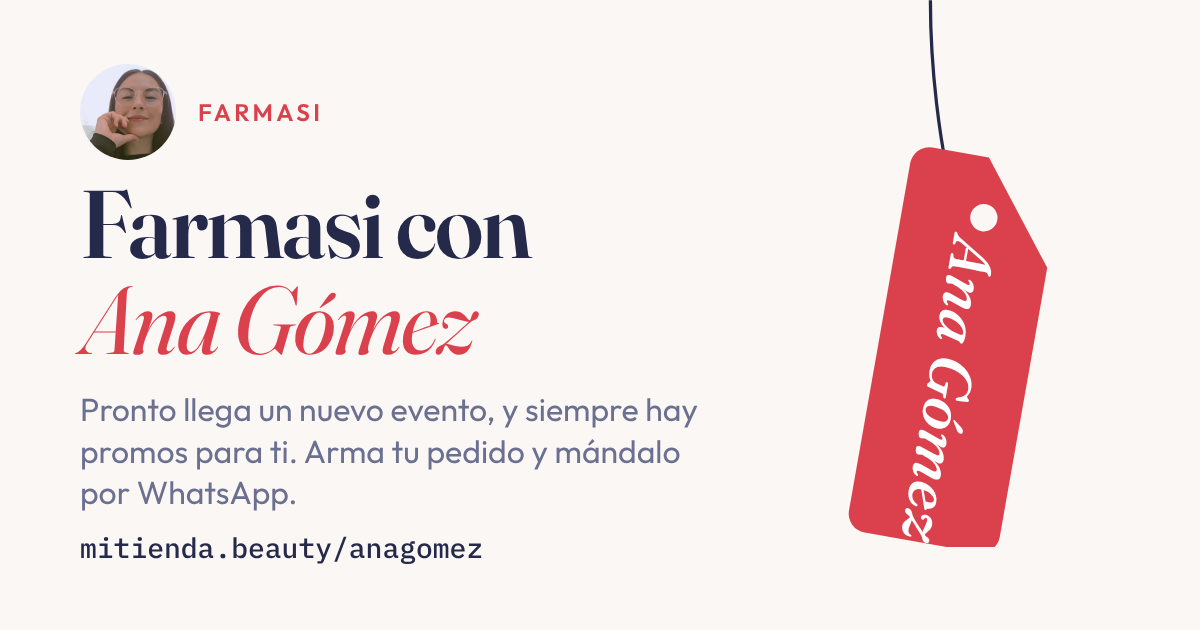
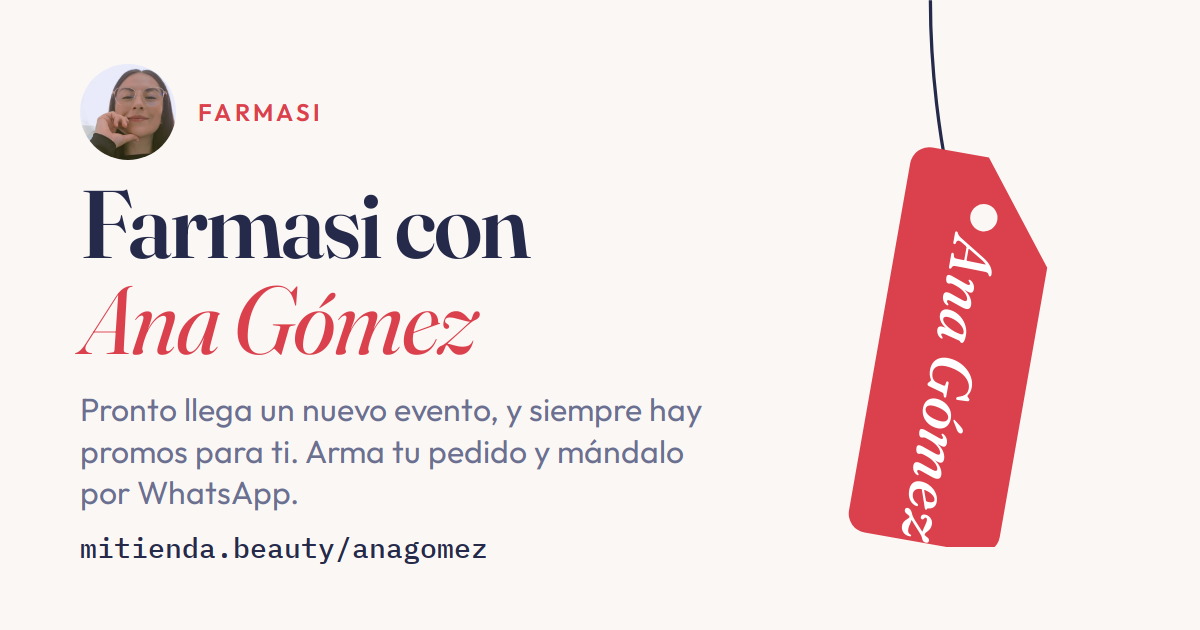
Vistas previas actualizadas (automático)

diff --git a/anagomez/index.html b/anagomez/index.html
@@ -15,11 +15,11 @@
 <meta property="og:type" content="website">
 <meta property="og:locale" content="es_MX">
 <meta property="og:url" content="https://mitienda.beauty/anagomez/">
-<meta property="og:image" content="https://mitienda.beauty/og/anagomez.png?v=7bb5f420">
+<meta property="og:image" content="https://mitienda.beauty/og/anagomez.png?v=861056d2">
 <meta property="og:image:width" content="1200">
 <meta property="og:image:height" content="630">
 <meta name="twitter:card" content="summary_large_image">
-<meta name="twitter:image" content="https://mitienda.beauty/og/anagomez.png?v=7bb5f420">
+<meta name="twitter:image" content="https://mitienda.beauty/og/anagomez.png?v=861056d2">
 <link rel="preconnect" href="https://fonts.googleapis.com">
 <link rel="preconnect" href="https://fonts.gstatic.com" crossorigin>
 <link href="https://fonts.googleapis.com/css2?family=IBM+Plex+Mono:wght@400;500;700&family=Outfit:wght@300;400;500;600;700;800&display=swap" rel="stylesheet">
